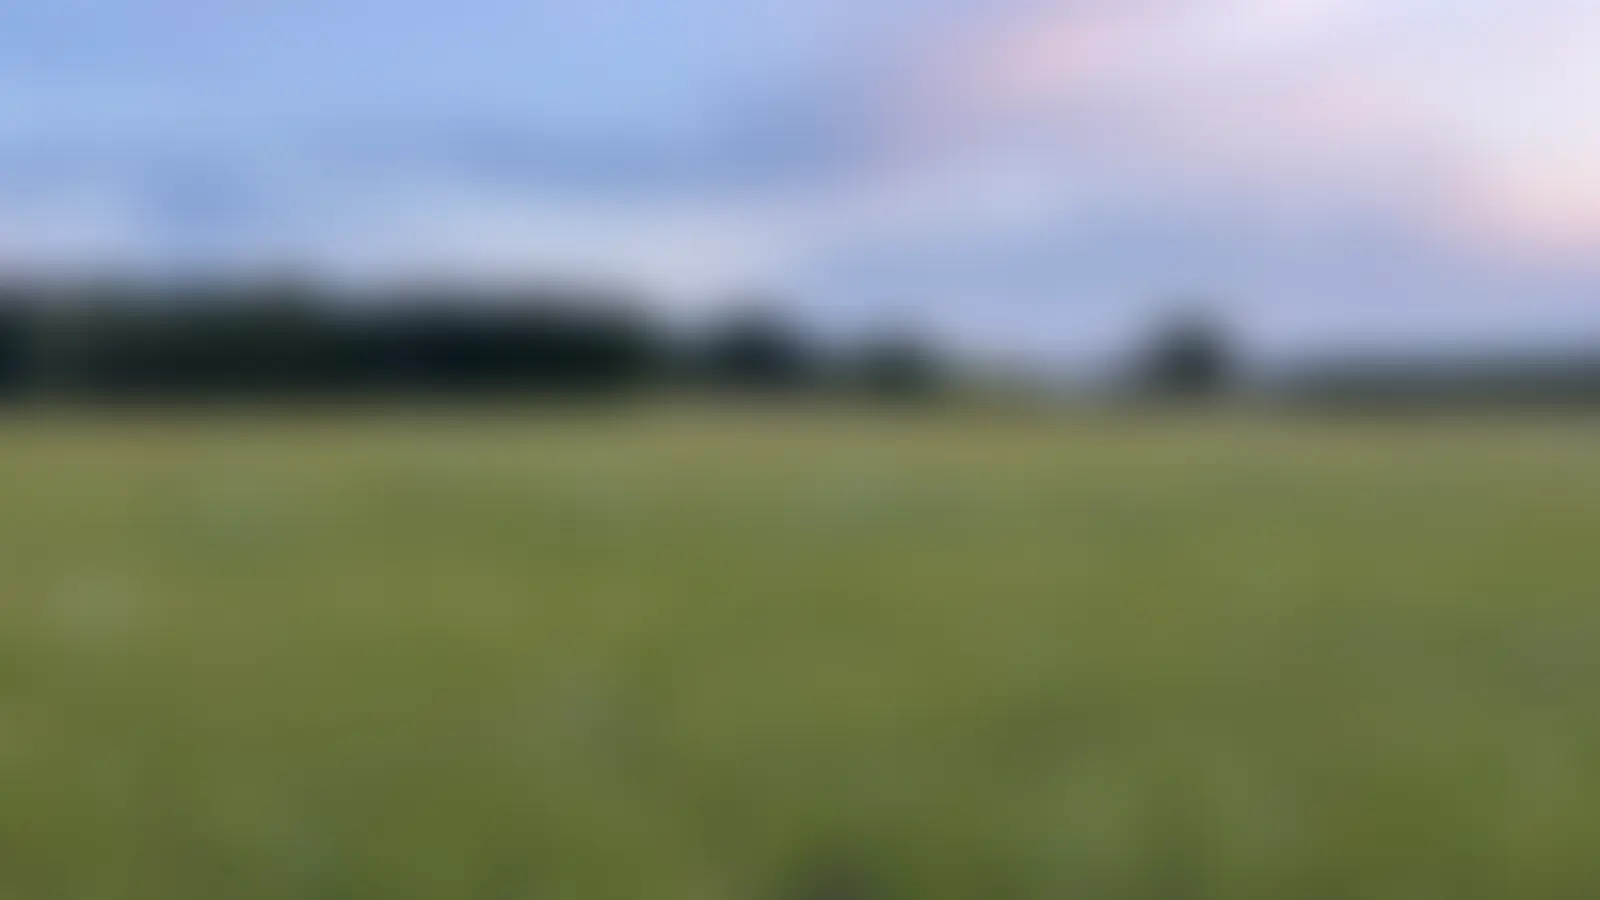
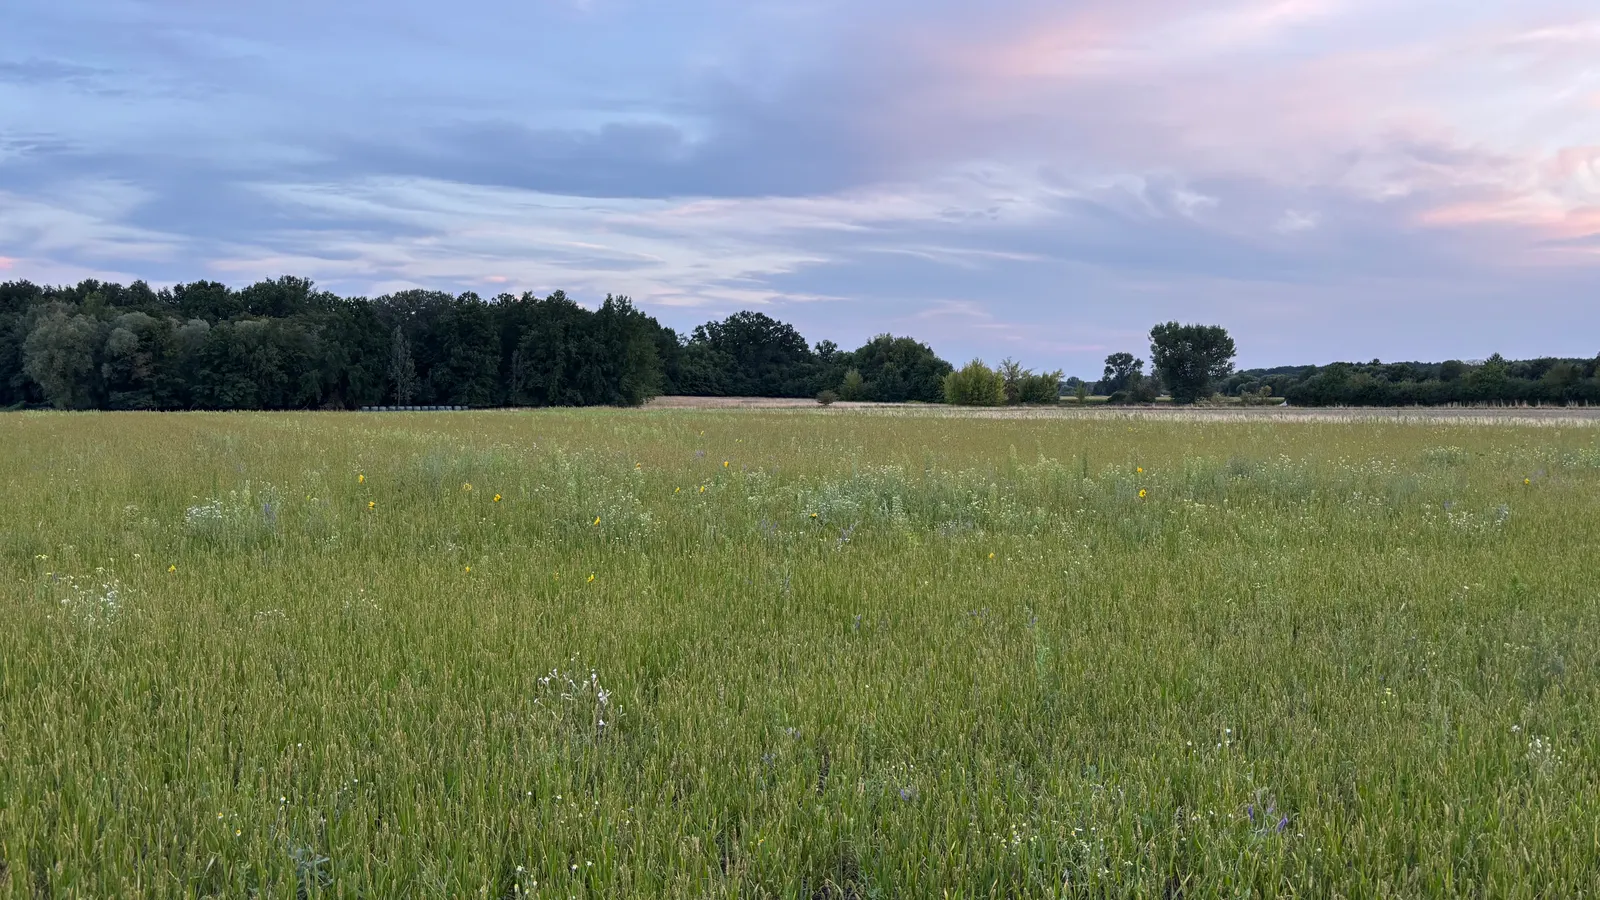
fix: blur the slideshow backdrop with CSS, and expose it on the panel
The background was a WebGL texture blurred once at build time, so nothing
about it could change at runtime. It is now a plain CSS layer behind a
transparent canvas, with the blur radius as a panel slider, and the source
photo ships unblurred. SetupConfig gained scene.transparent for this, in
place of the backgroundTexture option from the previous commit, which
this replaces rather than builds on.

Changed region(s): [[0.0, 0.2178, 1.0, 1.0], [0.2812, 0.1867, 0.5625, 0.2489], [0.875, 0.2178, 0.9375, 0.2489]]

diff --git a/src/views/Experiments/PictureSlideshow/PictureSlideshow.vue b/src/views/Experiments/PictureSlideshow/PictureSlideshow.vue
@@ -22,11 +22,13 @@ import {
 } from './slideshow'
 import type { SlideDirection, SlideshowCharacter, SlideshowState } from './types'
 import {
+  BACKDROP_URL,
   CANVAS_DISPLAY_ROTATION,
   CANVAS_MATERIAL,
   CANVAS_SIZE,
   CANVAS_DISPLAY_POSITION,
   CONTROL_MAPPING,
+  DEFAULT_BACKGROUND_BLUR,
   DEFAULT_CHARACTER,
   DEFAULT_TIMING,
   EXIT_DISTANCE,
@@ -54,7 +56,8 @@ const handleProgress = (progress: LoadProgress): void => {
 const reactiveConfig = createReactiveConfig({
   character: DEFAULT_CHARACTER,
   timing: { ...DEFAULT_TIMING },
-  exit: { distance: EXIT_DISTANCE, drop: EXIT_DROP, spin: EXIT_SPIN }
+  exit: { distance: EXIT_DISTANCE, drop: EXIT_DROP, spin: EXIT_SPIN },
+  background: { blur: DEFAULT_BACKGROUND_BLUR }
 })
 
 /** Set once the scene exists, so a panel change can rebuild the character. */
@@ -211,15 +214,37 @@ onUnmounted(() => {
 </script>
 
 <template>
+  <div
+    class="backdrop"
+    :style="{
+      backgroundImage: `url(${BACKDROP_URL})`,
+      filter: `blur(${reactiveConfig.background.blur}px)`
+    }"
+  ></div>
   <canvas ref="canvas"></canvas>
   <LoadingOverlay :visible="loadingVisible" :stage="loadingStage" :detail="loadingDetail" />
 </template>
 
 <style scoped>
+.backdrop {
+  position: fixed;
+  inset: 0;
+  background-size: cover;
+  background-position: center;
+
+  /* Blur samples past its own edge; scaled up, what that reveals is cropped away by the
+     viewport instead of showing as a faint halo at the border. */
+  transform: scale(1.15);
+}
+
 canvas {
   display: block;
+  position: relative;
   width: 100%;
   height: 100vh;
+
+  /* Transparent so the backdrop behind it shows through. */
+  background: transparent;
 
   /* The whole canvas is the control surface, so a swipe must not be taken as a page scroll. */
   touch-action: none;

diff --git a/src/views/Experiments/PictureSlideshow/config.ts b/src/views/Experiments/PictureSlideshow/config.ts
@@ -35,8 +35,13 @@ export const PICTURES: { name: string; url: string }[] = [
  */
 export const VIEW_TARGET: CoordinateTuple = [0, 3.3, 0]
 
+/** Behind the canvas as a CSS layer, per `SETUP_CONFIG.scene.transparent` below. */
+export const BACKDROP_URL = backdropUrl
+
 export const SETUP_CONFIG: SetupConfig = {
-  scene: { backgroundTexture: backdropUrl },
+  // The backdrop photo is a CSS layer behind the canvas instead, so its blur can be a
+  // panel slider rather than baked into the image at build time.
+  scene: { transparent: true },
   camera: { position: [0, 3.3, 5.2], fov: 50, lookAt: VIEW_TARGET },
   // An orbit drag and a swipe are the same gesture, and the swipe is the one
   // this scene is driven by, so the camera stays where it was composed. The
@@ -169,6 +174,9 @@ export const EXIT_SPIN = 3.4
 
 export const DEFAULT_TIMING: SlideshowTiming = { hold: 4, release: 0.85, arrive: 0.95 }
 
+/** How much the backdrop photo is blurred, in CSS pixels. */
+export const DEFAULT_BACKGROUND_BLUR = 20
+
 /** Right advances, left goes back, by tap or swipe alike. Arrow keys do the same on a desktop. */
 export const CONTROL_MAPPING: ControlMapping = {
   pointer: {
@@ -191,5 +199,8 @@ export const configControls: ConfigControlsSchema = {
     distance: { label: 'Throw distance', min: 4, max: 20, step: 0.5 },
     drop: { label: 'Throw drop', min: 0, max: 12, step: 0.5 },
     spin: { label: 'Tumble', min: 0, max: 10, step: 0.1 }
+  },
+  background: {
+    blur: { label: 'Backdrop blur', min: 0, max: 40, step: 1 }
   }
 }

diff --git a/packages/threejs/src/core.ts b/packages/threejs/src/core.ts
@@ -94,11 +94,12 @@ const applySceneConfig = (
   world: RAPIER.World,
   resolved: SetupConfig
 ) => {
-  if (resolved.scene?.backgroundTexture)
-    scene.background = textureLoader.load(
-      new URL(resolved.scene.backgroundTexture, import.meta.url) as unknown as string
-    )
-  else if (resolved.scene?.backgroundColor)
+  if (resolved.scene?.transparent) {
+    // `getScene` already gave the scene a default background Color, and a Color there
+    // paints over the renderer's own clear colour regardless of its alpha.
+    scene.background = null
+    renderer.setClearColor(0x000000, 0)
+  } else if (resolved.scene?.backgroundColor)
     scene.background = new THREE.Color(resolved.scene.backgroundColor)
   if (resolved.lights !== false) {
     getLights(scene, resolved.lights)

diff --git a/packages/threejs/src/getters.ts b/packages/threejs/src/getters.ts
@@ -407,7 +407,9 @@ export const getPixelRatio = (devicePixelRatio: number, maxPixelRatio = 2): numb
   Math.min(devicePixelRatio, maxPixelRatio)
 
 export const getRenderer = (canvas: HTMLCanvasElement): THREE.WebGLRenderer => {
-  const renderer = new THREE.WebGLRenderer({ canvas, antialias: true })
+  // Alpha is always on: it costs nothing for a scene that clears to an opaque colour,
+  // and it is what lets `scene.transparent` show a layer behind the canvas later.
+  const renderer = new THREE.WebGLRenderer({ canvas, antialias: true, alpha: true })
   renderer.setPixelRatio(getPixelRatio(window.devicePixelRatio))
   renderer.setSize(window.innerWidth, window.innerHeight)
   renderer.setClearColor(0xaaaaff)

diff --git a/packages/threejs/src/types.ts b/packages/threejs/src/types.ts
@@ -275,8 +275,8 @@ export interface SetupConfig {
   }
   scene?: {
     backgroundColor?: number
-    /** Takes over from `backgroundColor` when set, rather than combining with it. */
-    backgroundTexture?: string
+    /** Clears to nothing instead of `backgroundColor`, so a layer behind the canvas shows through. */
+    transparent?: boolean
   }
   camera?: CameraConfig
   ground?: GroundConfig | false

diff --git a/documentation/docs/packages/threejs.md b/documentation/docs/packages/threejs.md
@@ -105,7 +105,7 @@ Configure scene with camera, lights, ground, and sky.
 {
   scene?: {
     backgroundColor?: number,
-    backgroundTexture?: string  // takes over from backgroundColor when set
+    transparent?: boolean  // clears to nothing instead, so CSS behind the canvas shows through
   },
   camera?: {
     position?: CoordinateTuple | THREE.Vector3,
